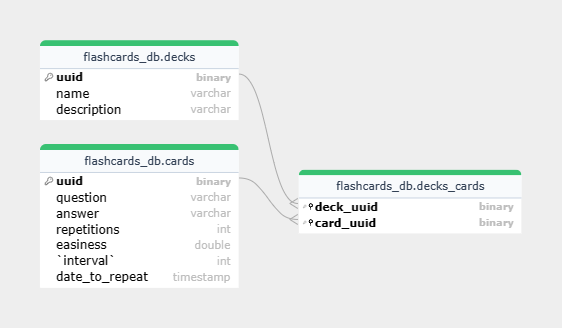
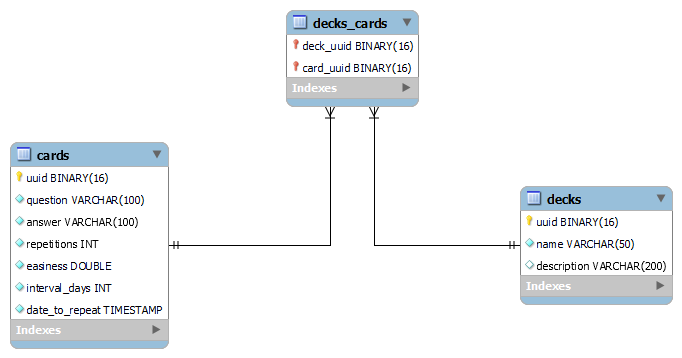
doc: Updated API and backend documentation references
Modified interval fieldname in backend model and its references in doc/database-reference.md, doc/flashcards-EER.png and added doc/backend_model.sql

diff --git a/doc/database-reference.md b/doc/database-reference.md
@@ -7,24 +7,24 @@
 
 #### Deck
 Attributes:
-- **UUID**: The deck UUID (_Universally Unique ID_). It has been designed as the `PRIMARY KEY` so cannot be `NULL`. The type is `BINARY(16)`. The constraint `UNIQUE` does not need to be specified as it is implicitly assumed in primary keys.
-- **Name**: The deck name. It has been designed as `VARCHAR(50)` to support up to 50 characters and cannot be `NULL`.
-- **Description**: The deck description. It has been designed as `VARCHAR(200)` to support up to 200 characters and can be `NULL`, as user might not want to enter a description for the deck.
+- **uuid**: The deck UUID (_Universally Unique ID_). It has been designed as the `PRIMARY KEY` so cannot be `NULL`. The type is `BINARY(16)`. The constraint `UNIQUE` does not need to be specified as it is implicitly assumed in primary keys.
+- **name**: The deck name. It has been designed as `VARCHAR(50)` to support up to 50 characters and cannot be `NULL`.
+- **description**: The deck description. It has been designed as `VARCHAR(200)` to support up to 200 characters and can be `NULL`, as user might not want to enter a description for the deck.
 
 #### Card
 Attributes:
-- **UUID**: The card UUID (_Universally Unique ID_). It has been designed as the `PRIMARY KEY` so cannot be `NULL`. The type is `BINARY(16)`. The constraint `UNIQUE` does not need to be specified as it is implicitly assumed in primary keys.
-- **Question**: The card question. It has been designed as `VARCHAR(100)` to support up to 100 characters and cannot be `NULL`.
-- **Answer**: The card answer. It has been designed as `VARCHAR(100)` to support up to 100 characters and cannot be `NULL`.
-- **Repetitions**: A value that is used by _SuperMemo2 Algorithm_ and represents the number of times since the origin of times that user has played this card. It has been designed as an `INTEGER` and `UNSIGNED` value which cannot be `NULL` with default value of zero.
-- **Easiness**: A value that is used by _SuperMemo2 Algorithm_ and is calculated based on how well the user remembered the card (i.e. _quality_ value). It has got a minimum value of 1.3. It has been designed as a `DOUBLE` value which cannot be `NULL` with default value of 2.5.
-- **Interval**: A value that is used by _SuperMemo2 Algorithm_ and represents the number of days until the day that user must review the card. It has been designed as an `INTEGER` and `UNSIGNED` value which cannot be `NULL` with default value of 0.
-- **Date to Repeat**: The exact timestamp that the card must be reviewed. It has been designed as an `TIMESTAMP` which cannot be `NULL` with default value of `NOW()`.
+- **uuid**: The card UUID (_Universally Unique ID_). It has been designed as the `PRIMARY KEY` so cannot be `NULL`. The type is `BINARY(16)`. The constraint `UNIQUE` does not need to be specified as it is implicitly assumed in primary keys.
+- **question**: The card question. It has been designed as `VARCHAR(100)` to support up to 100 characters and cannot be `NULL`.
+- **answer**: The card answer. It has been designed as `VARCHAR(100)` to support up to 100 characters and cannot be `NULL`.
+- **repetitions**: A value that is used by _SuperMemo2 Algorithm_ and represents the number of times since the origin of times that user has played this card. It has been designed as an `INTEGER` and `UNSIGNED` value which cannot be `NULL` with default value of zero.
+- **easiness**: A value that is used by _SuperMemo2 Algorithm_ and is calculated based on how well the user remembered the card (i.e. _quality_ value). It has got a minimum value of 1.3. It has been designed as a `DOUBLE` value which cannot be `NULL` with default value of 2.5.
+- **interval_days**: A value that is used by _SuperMemo2 Algorithm_ and represents the number of days until the day that user must review the card. It has been designed as an `INTEGER` and `UNSIGNED` value which cannot be `NULL` with default value of 0.
+- **date_to_repeat**: The exact timestamp that the card must be reviewed. It has been designed as an `TIMESTAMP` which cannot be `NULL` with default value of `NOW()`.
 
 ### Relationships
 #### Decks-Cards
-This entity represents the relationship among Decks and Cards entities. Each row consists of the identifier of the deck and the identifier of the card that is contained inside that deck. The primary key is the pair `(UUID-deck, UUID-card)`.
+This entity represents the relationship among Decks and Cards entities. Each row consists of the identifier of the deck and the identifier of the card that is contained inside that deck. The primary key is the pair `(deck_uuid, card_uuid)`.
 
 Attributes:
-- **UUID**: The foreign key to deck UUID.
-- **UUID**: The foreign key to card UUID.
+- **deck_uuid**: The foreign key to deck UUID.
+- **card_uuid**: The foreign key to card UUID.
